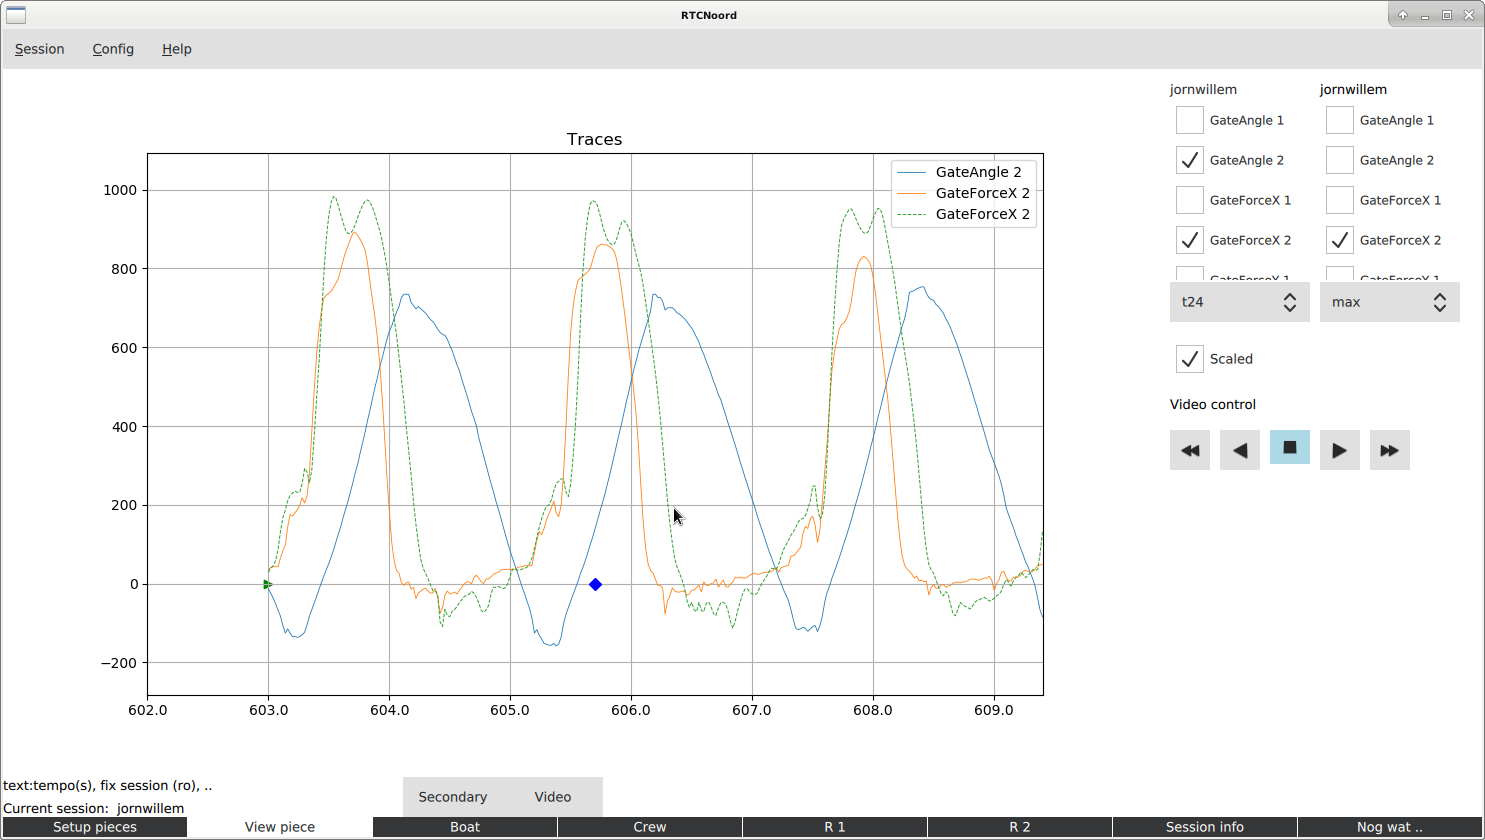
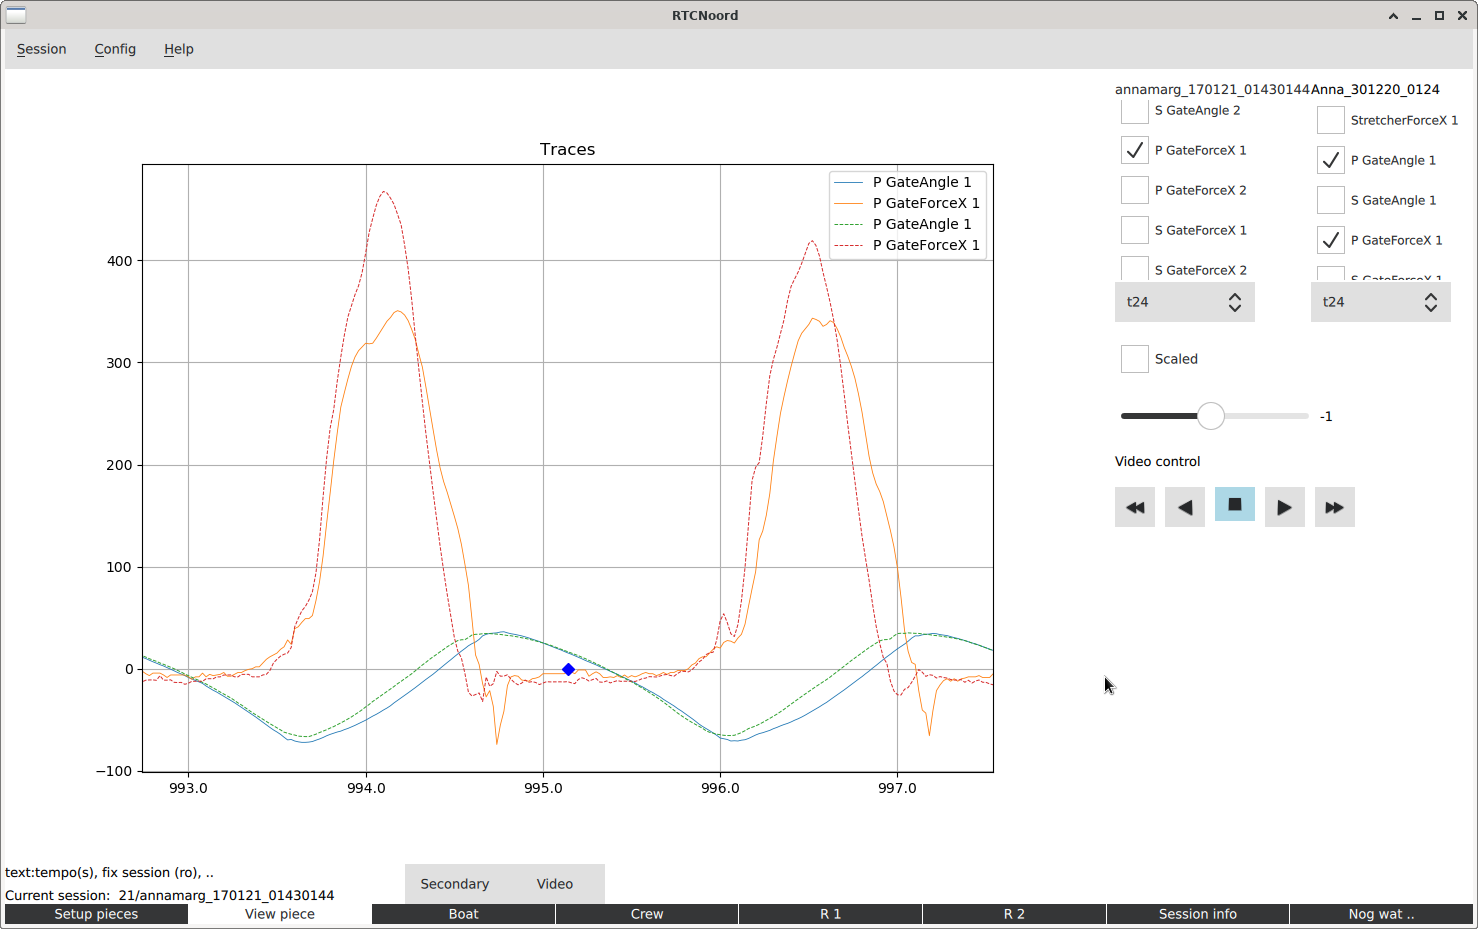
Updated screenshots

diff --git a/README.md b/README.md
@@ -97,13 +97,13 @@ The next screenshot shows a number of sensors, where they are scaled in such a w
 Using the "Secondary" button another session can be selected
 In this way it is possible to view 2 different sessions next to each other to compare traces from these sessions.
 
-Below two parts of the same session are shown, one with a stroke rate of 24 and the other with a rate of 32.
 The plots are "normalized" in a crude way so that they overlap even if the rates are different, this to better compare the strokes.
 This is only done by scaling the first two strokes of the secondary session to the first session.
-Also, using the slider, the secondary plot can movod a little bit with respect to the main session.
+Also, using the slider on the right, the secondary plot can moved a little bit with respect to the main session.
 To use the slider look at the first two strokes in the piece and select the (port) gate angles of the strokes.
 Then try to use the slider to make the strokes align better.
 
+Below the main session is data from a pair where the force curve of the stroke is shown. The plot of the secondary session (dotted line) is of the same rower but now from a skiff session.
 
 ![Eerste](docs/ViewPiece2.png)
 
